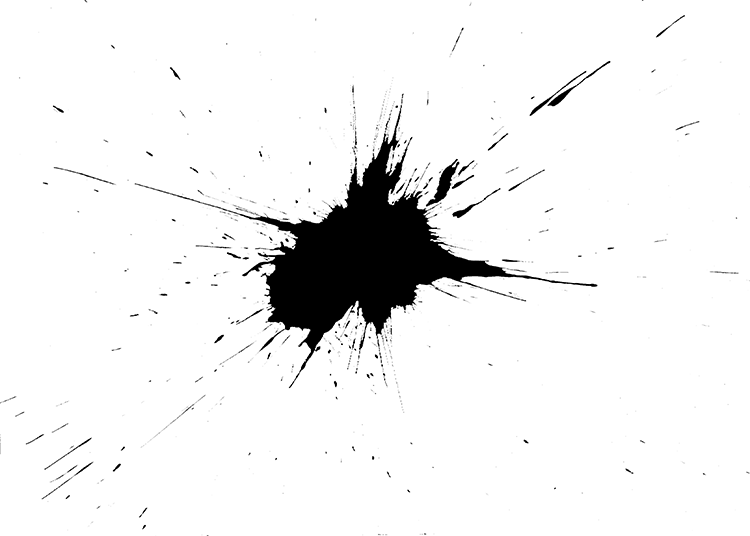
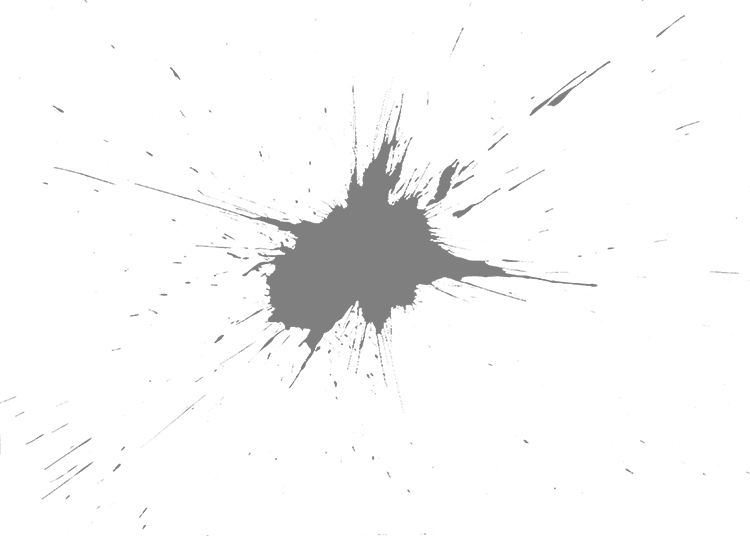
creted the about me page and css, updated the other pages so that they connected

diff --git a/AboutMe.html b/AboutMe.html
@@ -11,23 +11,71 @@
       integrity="sha384-9aIt2nRpC12Uk9gS9baDl411NQApFmC26EwAOH8WgZl5MYYxFfc+NcPb1dKGj7Sk"
       crossorigin="anonymous"
     />
-    <link rel="stylesheet" href="https://use.fontawesome.com/releases/v5.0.7/css/all.css">
+    <link
+      rel="stylesheet"
+      href="https://use.fontawesome.com/releases/v5.0.7/css/all.css"
+    />
     <link rel="stylesheet" href="am.css" />
   </head>
 
   <body>
-    <div class="wrap">
-      <ul class ="navbar">
-        <li><a href ="#">HOME</a></li>
-        <li><a href ="#">HOME</a></li>
-        <li><a href ="#">PORTFOLIO</a></li>
-        <li><a href ="#">PORTFOLIO</a></li>
-        <li><a href ="#">CONTACT</a></li
-        <li><a href ="#">PORTFOLIO</a></li>
-      </ul>
-      <img src="./Assets/images/Kobiewb.jpg" width="550px"
-                      class="rounded float-left pr-4 pb-3 img-fluid" alt="Kobie Watkins.jpg">
-      
+    <div class="nav">
+      <a href="#home" class="active">KOBIE WATKINS</a>
+      <a href="#">HOME</a>
+      <a class="nav-link" href="AboutMe.html">ABOUT ME</a>
+      <a class="nav-link" href="portfolio.html">PORTFOLIO</a>
+      <a class="nav-link" href="contact.html">CONTACT</a>
+      <a class="nav-link" href="Goals.html">GOALS</a>
+    </div>
+
+    <div class="container-md">
+      <div class="row">
+        <section class="col-md-7 m-3 pb-3 bg-secondary text-white">
+          <h3 class="pl-4 pt-4 pb-1">KOBIE</h3>
+
+          <div class="px-3 mr-3">
+            <hr class="pl-4 pr-4 mpb-2 solid" />
+            <img
+              src="./Assets/images/Kobiewb.jpg"
+              width="350px"
+              class="rounded float center"
+              alt="Kobie Watkins.jpg"
+            />
+            <p>
+              I live in Durham, North Carolina. I am a World-Renowned Jazz
+              Drummer and have worked as a Professional Jazz Musician for 20+
+              years.
+            </p>
+
+            <p>
+              I am a strong communicator, and it is important to me to convey
+              complete ideas, thoughts, and difficulties. Building teamwork and
+              trust are my strongest attributes, as well as maintaining good
+              time management and skill development, whether working alone or
+              with a team.
+            </p>
+          </div>
+        </section>
+        <div class="card1 text-white bg-secondary mb-3">
+          <ul class="list-group list-group-flush">
+            <li>
+              Email:
+              <a href="kobie.watkins@gmail.com">kobie.watkins@gmail.com</a>
+            </li>
+            <li>
+              Github:
+              <a href="https://github.com/kobac44">Kobie Watkins (kobac44)</a>
+            </li>
+            <li>
+              LinkedIn:
+              <a href="www.linkedin.com/in/kobie-watkins4575 ">Kobie Watkins</a>
+            </li>
+            <li>Phone: 773.771.2017</li>
+          </ul>
+        </div>
+      </div>
+    </div>
+
     <script
       src="https://cdnjs.cloudflare.com/ajax/libs/popper.js/1.14.7/umd/popper.min.js"
       integrity="sha384-UO2eT0CpHqdSJQ6hJty5KVphtPhzWj9WO1clHTMGa3JDZwrnQq4sF86dIHNDz0W1"

diff --git a/Goals.html b/Goals.html
@@ -16,7 +16,7 @@
   </head>
 
   <body data-spy="scroll" data-target="#navbarResponsive">
-    <nav class="navbar navbar-expand-md navbar-dark bg-dark sticky-top">
+    <nav class="navbar navbar-expand-md navbar-dark  bg-dark sticky-top">
       <span class="navbar-brand">KOBIE WATKINS</span>
       <button class="navbar-toggler" type="button" data-toggle="collapse" data-target="#navbarNav" aria-controls="navbarNav" aria-expanded="false" aria-label="Toggle navigation">
         <span class="navbar-toggler-icon"></span>
@@ -24,13 +24,13 @@
       <div class="collapse navbar-collapse" id="navbarNav">
         <ul class="navbar-nav ml-auto">
           <li class="nav-item active">
-            <a class="nav-link" href="AboutMe.html">About Me</a>
+            <a class="nav-link" href="AboutMe.html">ABOUT ME</a>
           </li>
           <li class="nav-item">
-            <a class="nav-link" href="portfolio.html">Portfolio</a>
+            <a class="nav-link" href="portfolio.html">PORTFOLIO</a>
           </li>
           <li class="nav-item">
-            <a class="nav-link" href="contact.html">Contact</a>
+            <a class="nav-link" href="contact.html">CONTACT</a>
           </li>
           <li class="nav-item">
             <a class="nav-link" href="Goals.html">GOALS</a>
@@ -39,6 +39,7 @@
       </div>
     </nav>
     </nav>
+    
 
     <script
       src="https://cdnjs.cloudflare.com/ajax/libs/popper.js/1.14.7/umd/popper.min.js"

diff --git a/am.css b/am.css
@@ -3,40 +3,51 @@
 body {
   background-image: url(./Assets/images/splotch.png);
   background-size: cover;
-}
-.wrap {
-  widows: 100%;
-  height: 60px;
-  margin: 0px;
-  background: #366b88;
-}
-
-.navbar {
-  height: 60px;
-  padding: 0px;
-  margin: 0px;
-  border-right: 1px solid 54879d;
-}
-
-.navbar li {
-  height: auto;
-  width: 150px;
-  float: left;
-  text-align: center;
-  font-weight: bold;
-  list-style: none;
-  font-size: 14px;
+  opacity: 0.9;
+  margin: 0;
+  padding: 0;
   font-family: "Montserrat", sans-serif;
-  padding: 0px;
-  margin: 0px;
+}
+
+.nav {
+  overflow: hidden;
   background: #366b82;
 }
-
-.navbar a {
-  padding: 22px;
-  border-left: 1px solid #54879d;
-  border-right: 1px solid #1f5065;
+.nav a {
+  float: left;
+  color: #fff;
+  text-align: center;
+  padding: 20px 16px;
+  font-size: 14px;
+  width: 100px;
   text-decoration: none;
-  color: white;
-  display: block;
+  font-weight: bold;
+  text-transform: uppercase;
+}
+a {
+  margin-left: 20px;
+  margin-right: 20px;
+}
+.nav a:hover {
+  background: orangered;
+  color: #366b82;
+}
+img {
+}
+h3 {
+  text-align: center;
+  letter-spacing: 0.3em;
+}
+.card1 {
+  margin-left: 15px;
+  margin-top: auto;
+  width: 300px;
+  height: 140px;
+  margin-top: 500px;
+}
+ul,
+li {
+  list-style: none;
+  list-style-type: none;
+  color: black; /* bullet color */
 }

diff --git a/contact.html b/contact.html
@@ -34,7 +34,7 @@
             <a class="nav-link" href="contact.html">Contact</a>
           </li>
           <li class="nav-item">
-            <a class="nav-link" href="Resume.html">Resume</a>
+            <a class="nav-link" href="Goals.html">GOALS</a>
           </li>
         </ul>
       </div>
